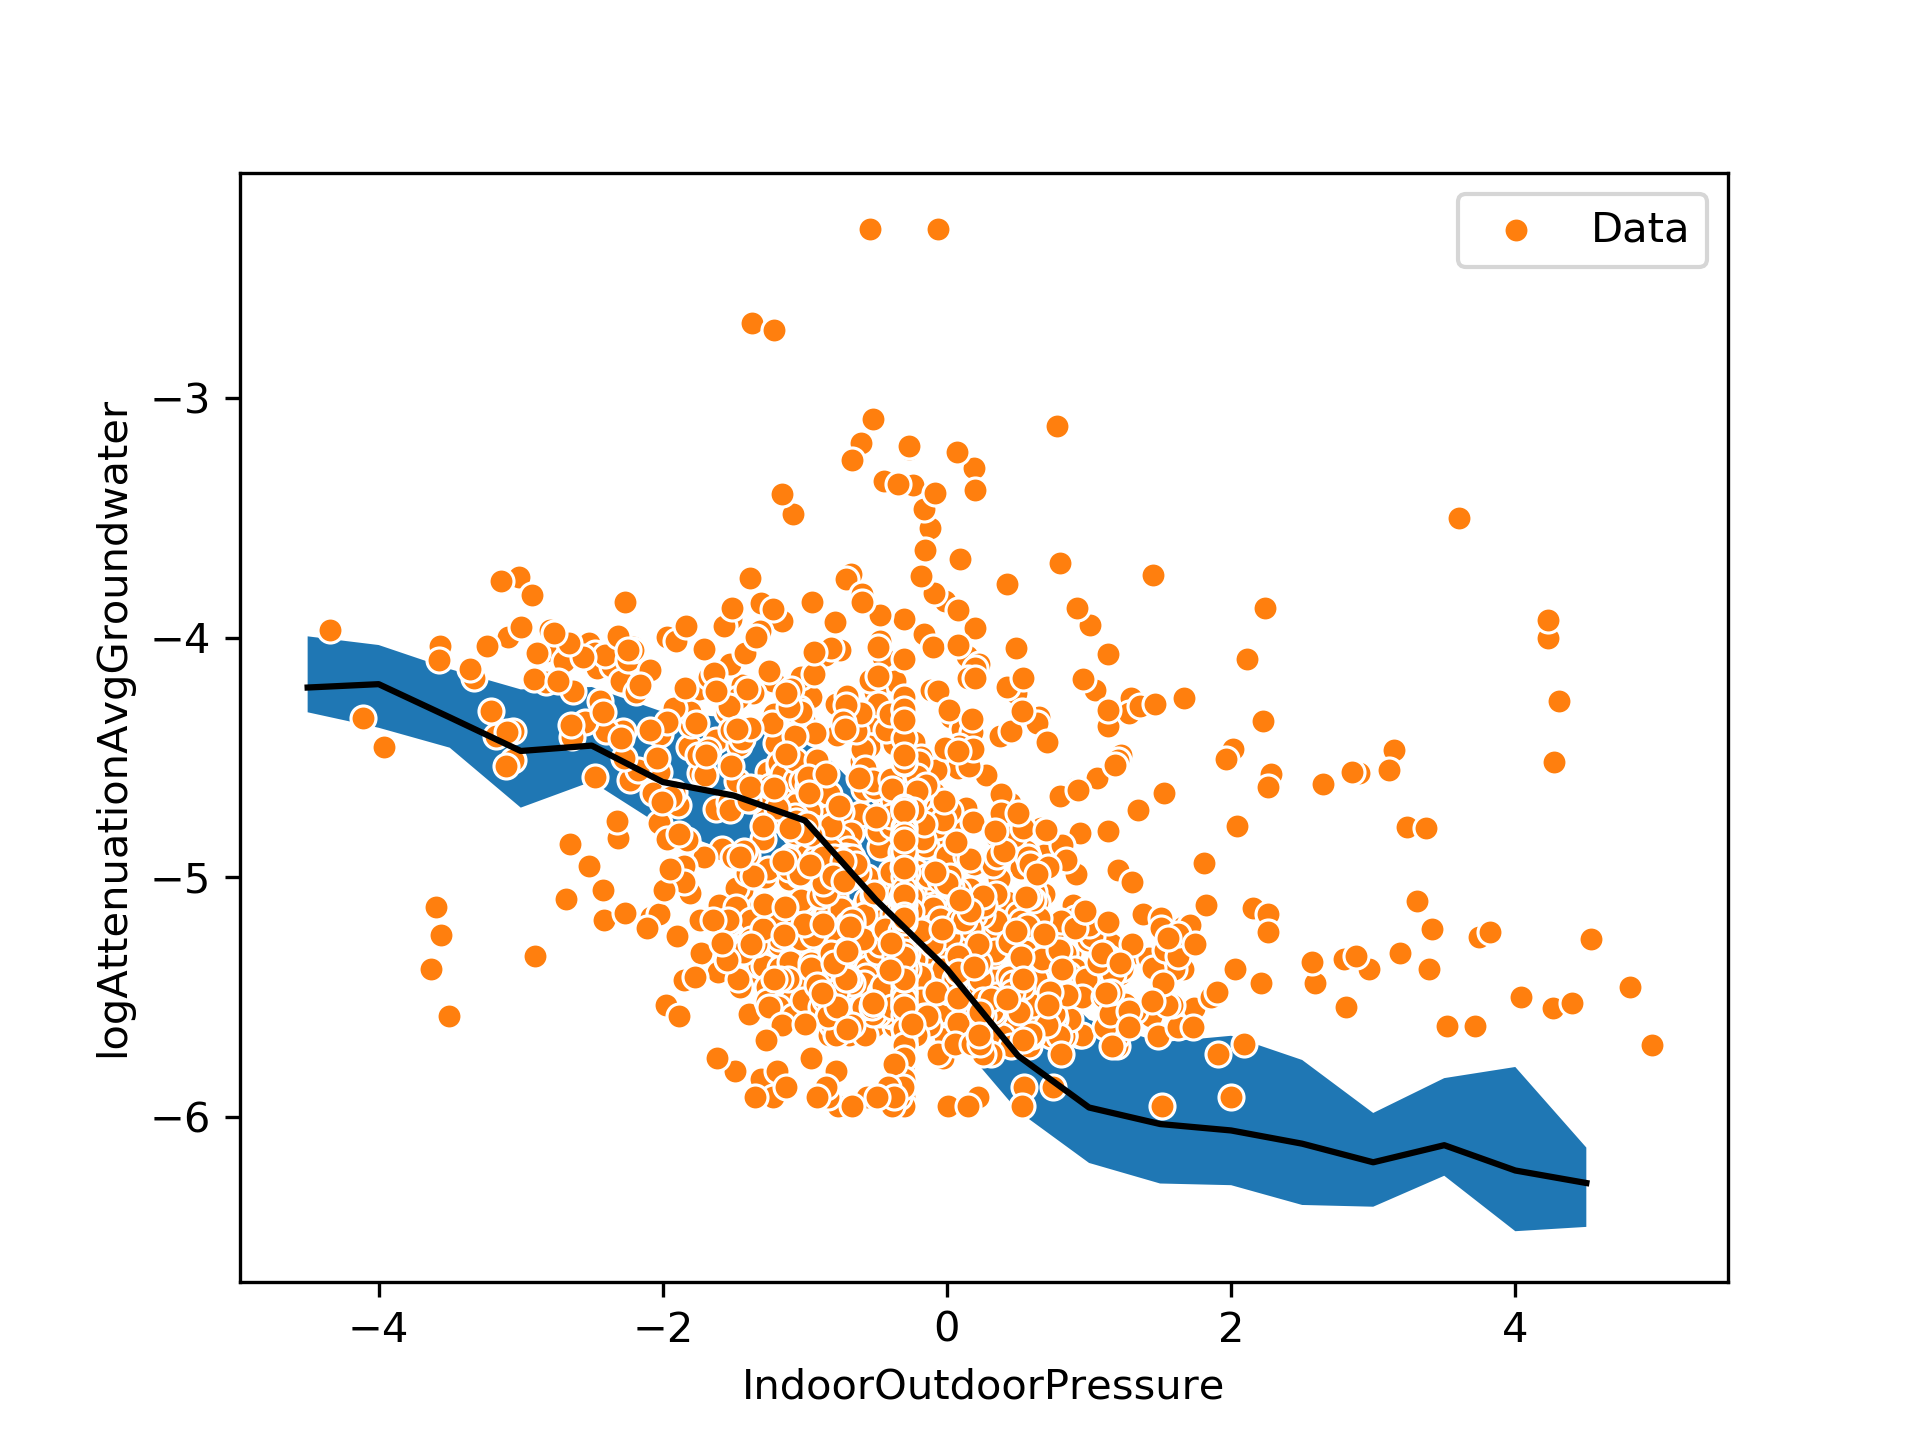
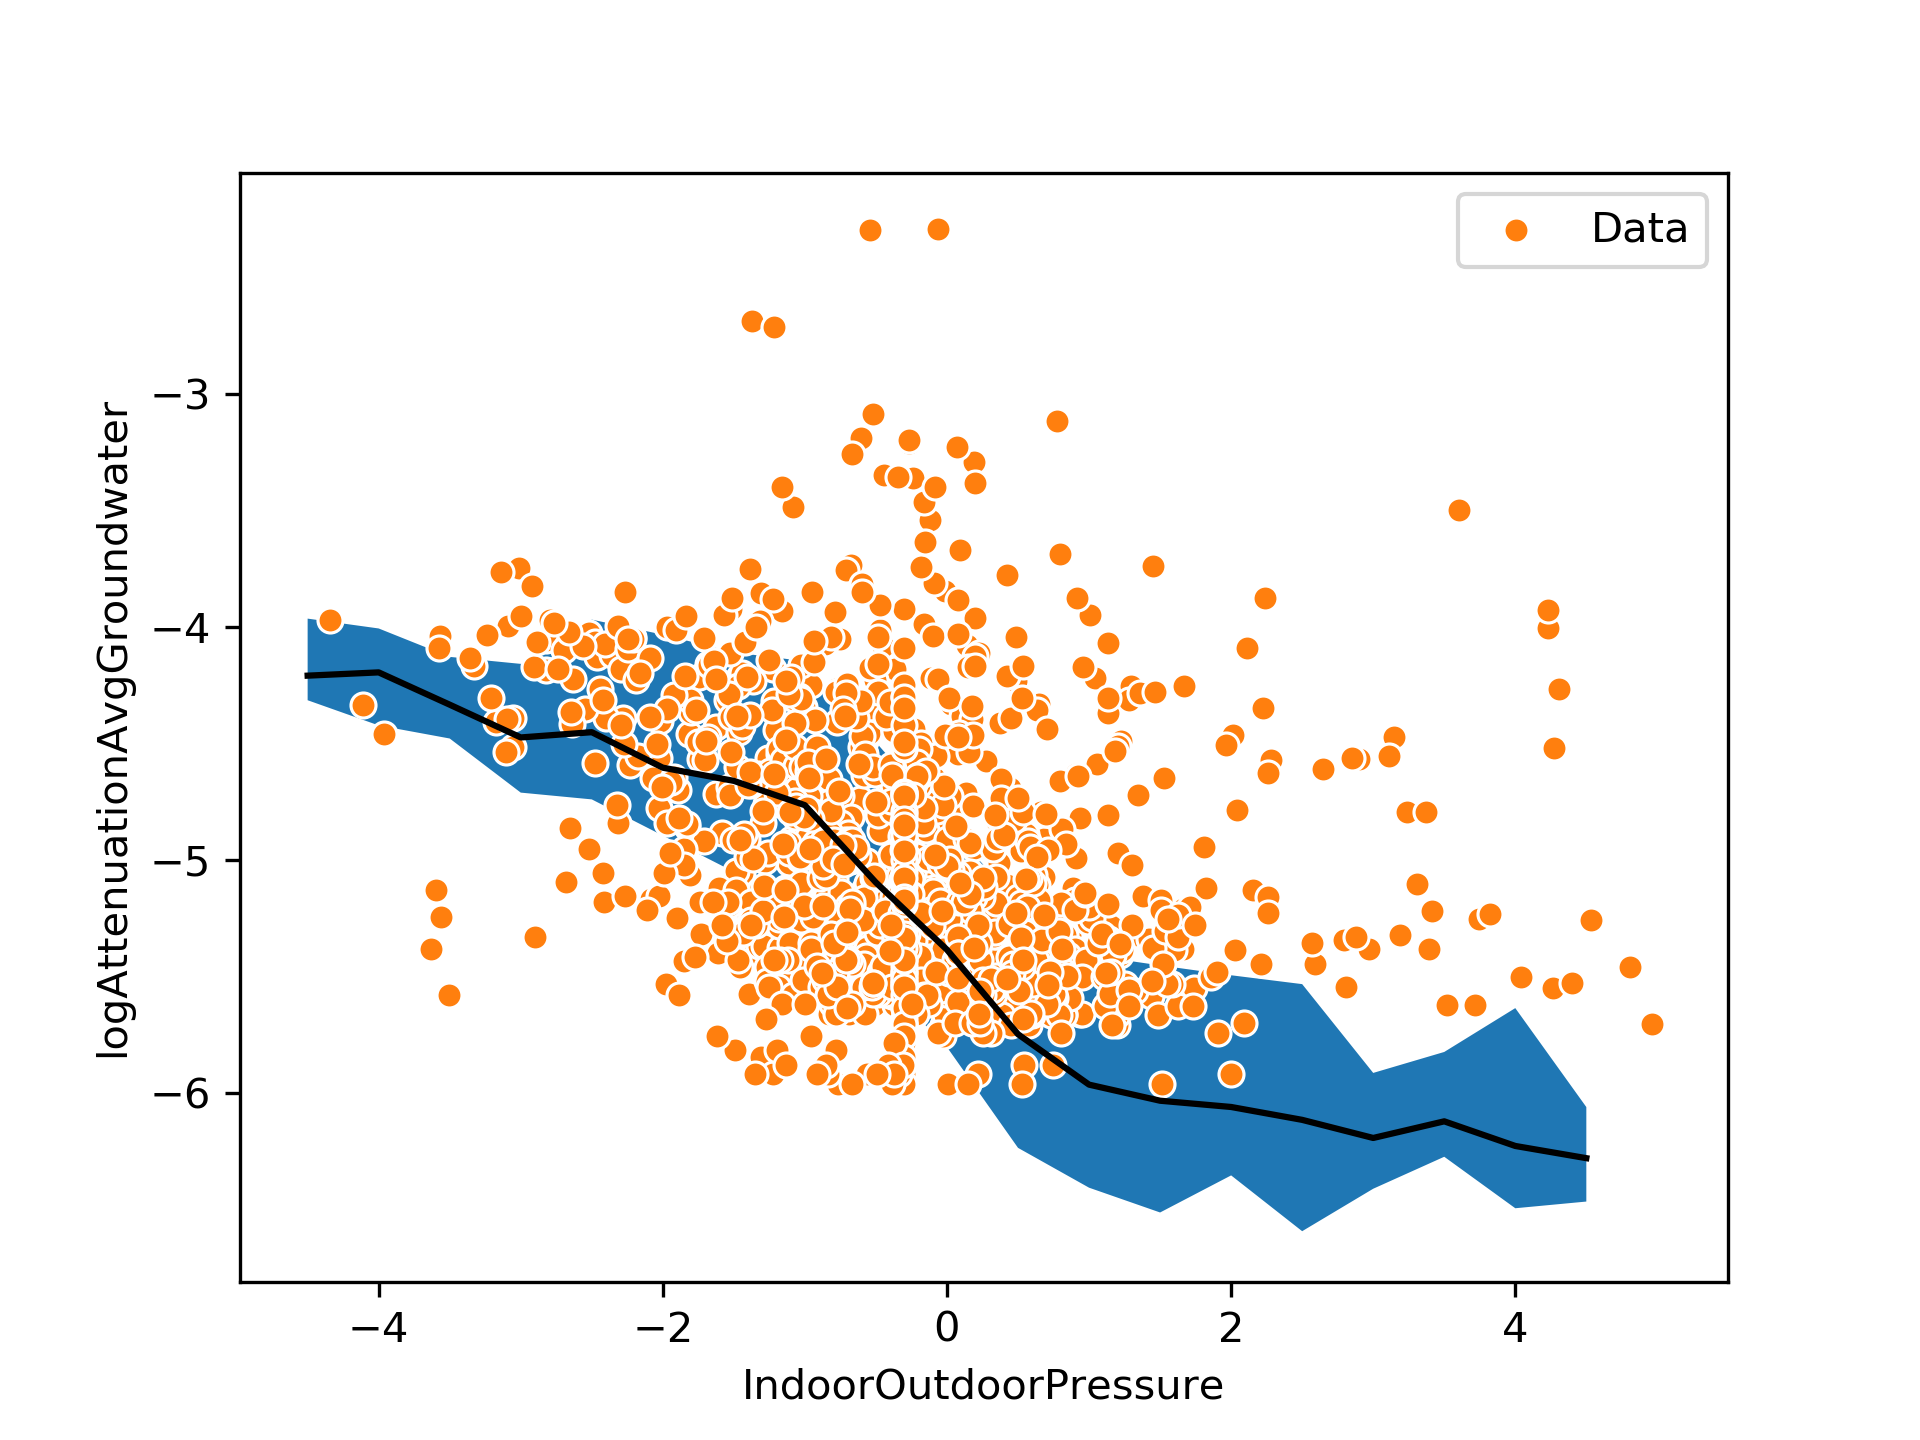
Added structure notes

diff --git a/tex/main.tex b/tex/main.tex
@@ -128,6 +128,76 @@ The distributions of the individual parameters and the relationship between them
     \includegraphics[width=\textwidth]{simple_grid.pdf}
 \end{figure}
 
+% ASU:
+% Pressure distributions similar
+% Yet drastically different c
+% => clearly driven by PP
+% Pressure relationship better when open than close
+% => Enhanced advection, motivating our choice of model
+% Poor relationship for closed,
+% => Diffusion dominated transport
+% Yet significant uncertainty and variance in indoor air?
+% Look at the influence of Ae on this
+% Pressure is related to Ae, but not determinant
+% => still large variability in Ae for a given p, what effect does this have?
+
+% Indianapolis & North Island
+% Unforunately no Ae data here like ASU, cannot look at that influence
+% Stronger correlation between p and c here
+% Indianapolis had some type of PP, though less significant than at ASU
+% North Island had very large pressure changes, may explain the stronger relationship
+
+
+% Constant Ae simulations
+% First consider only pressure influence (constant Ae)
+% PP Open
+% Clearly we can capture the trend when p < 0, but not well when p > 0
+% When p > 0, diffusion limit, but still variability, why?
+% => Indicate fluctuating Ae
+% Uniform soil
+% Removing gravel sub-base removes the "upswing"
+% Permeable subbase region necessary to realize "advective potential"
+% PP closed
+% Kind of capture a "trend", but not variability
+% Pressure not significant and/or advective transport too inhibited to be signifncant
+% => Indicate fluctating Ae driver for variability here
+% Main point:
+% Pressure controls Ae and entry rate, but in closed and uniform cases, it is insufficnet to dramatically increase entry rate
+% When open, this is no longer true
+% Pressure also help control Ae, but there is great uncertainty
+% This leads to the difficult to predict variability
+% => Need to incorporate Ae fluctuations to understand variability
+
+% New PP simulations with extreme Ae values for each pressure considered
+% Now we capture most of the variability for open and closed
+% Strong indicator that fluctating Ae is responsible for a significant portion of the variability
+% Needs to be controlled better (hard)
+% Or the span of values considered to give upper and lower limits on variability
+% Use EPA handbook to estimate variability (pretty much can always be one OOM)
+
+% This says nothing about at what speed or timescale change may occur
+% We look at the difference between max/min across various timespans
+% See that on daily to a week, absent a PP, little variability is expected
+% => 24 hr average samples adequate
+% => no need to sample more than a few days apart
+% Across time, more of the extreme values of Ae and pressure have occured, kind of ergodically, giving rise to this increase in variability
+% Remember p and Ae are more or less normally distributed, (Ae more skewed)
+% => extreme values unlikely but do happen across time
+
+% Problem with attenuation to subslab
+% Spatial variability in subslab may be greater than temporal indoor variability
+% ASU perfect example, here there is greater alpha_sb variability than c
+% => May be more uncertain
+% => False positive for indoor sources
+% => But could also indicate presence of PP in subbase
+% Much larger spatial variability in subbase with PP present than without
+% (Show plot with 2-4 panes)
+% 1./2. show ASU/Indianapolis alpha_sb
+% 3./4. model alpha_sb distributions with and without PP 
+
+
+
+
 \begin{figure}[!h]
 	\centering
 	\begin{minipage}[c]{0.49\textwidth}

diff --git a/code/simulation_predictions.py b/code/simulation_predictions.py
@@ -179,8 +179,8 @@ class SimPrediction:
         p_in = np.arange(-5, 5, 0.5)
         #print(p_in.categories.astype('float'))
 
-        Ae_min = grp[('AirExchangeRate','5%')].values
-        Ae_max = grp[('AirExchangeRate','95%')].values
+        Ae_min = grp[('AirExchangeRate','min')].values
+        Ae_max = grp[('AirExchangeRate','max')].values
         Ae_mean = grp[('AirExchangeRate','mean')].values
 
         alpha_min = []
